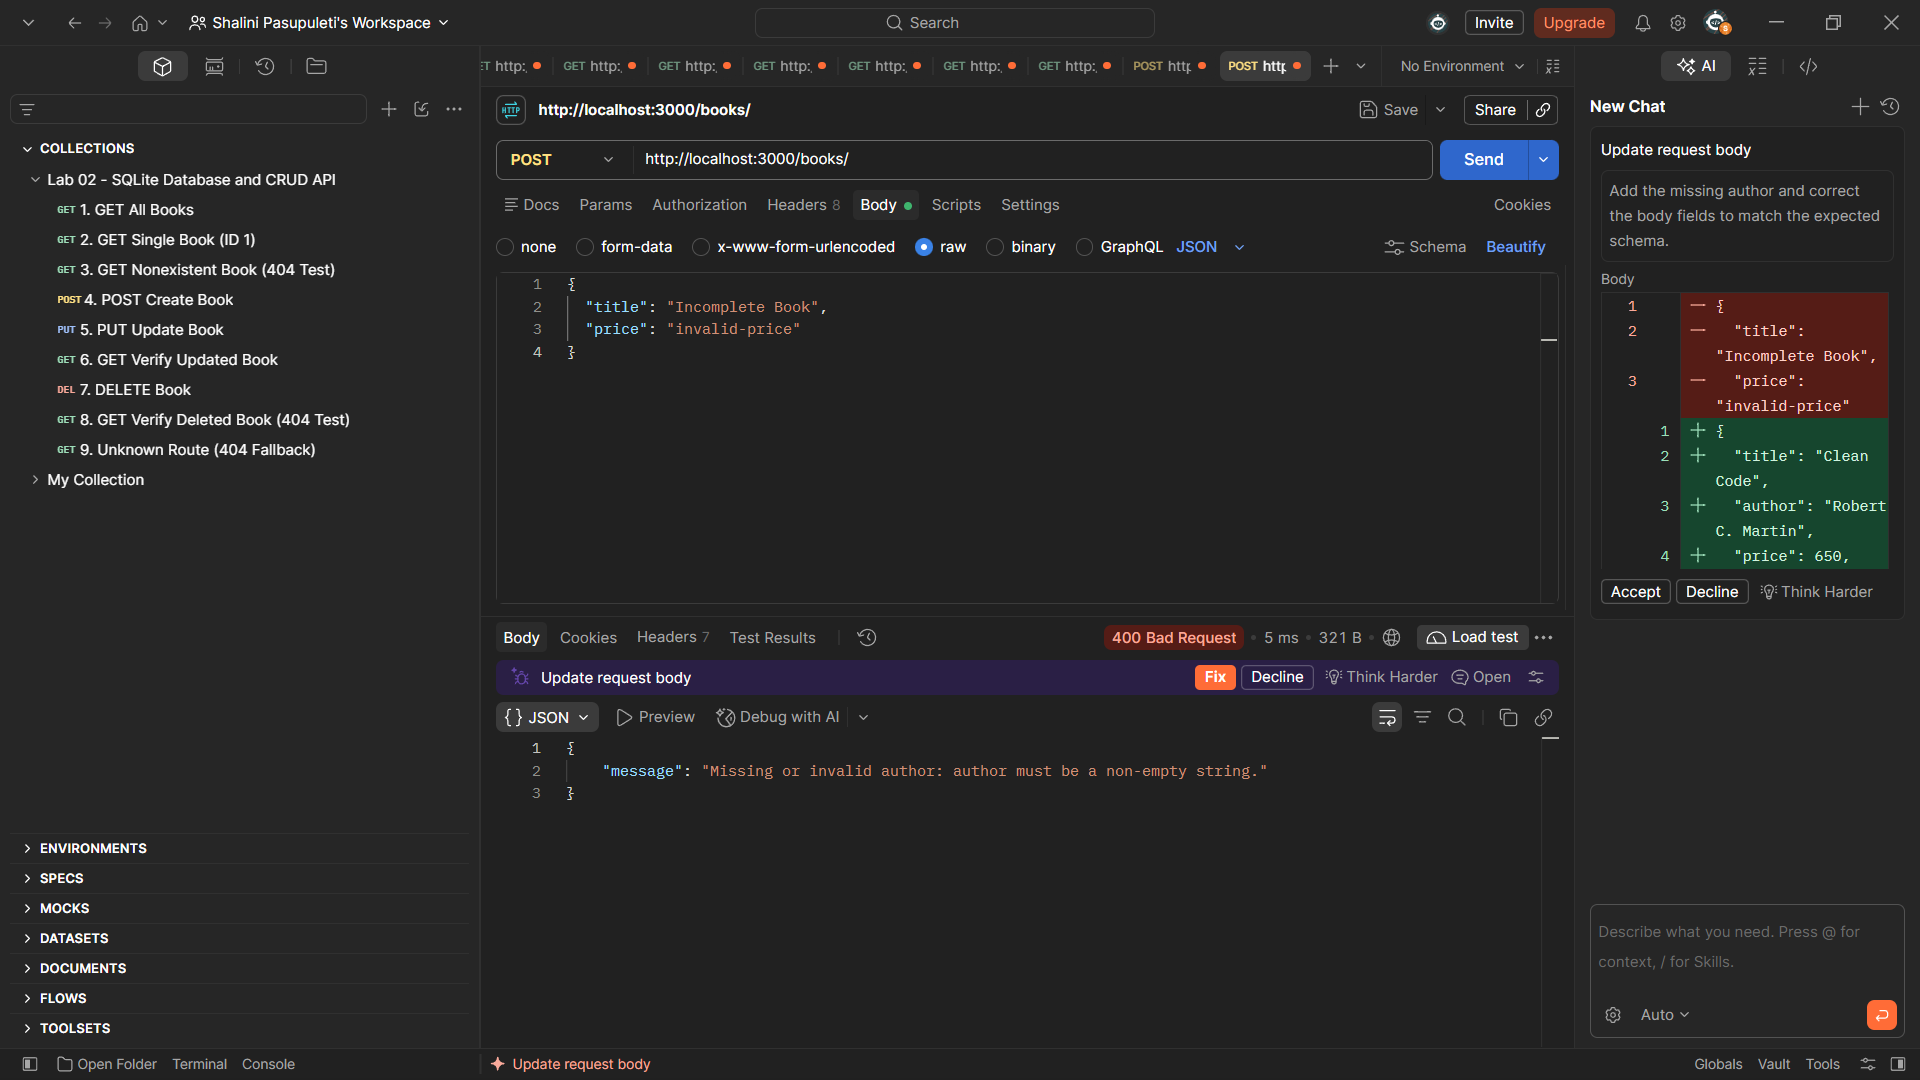
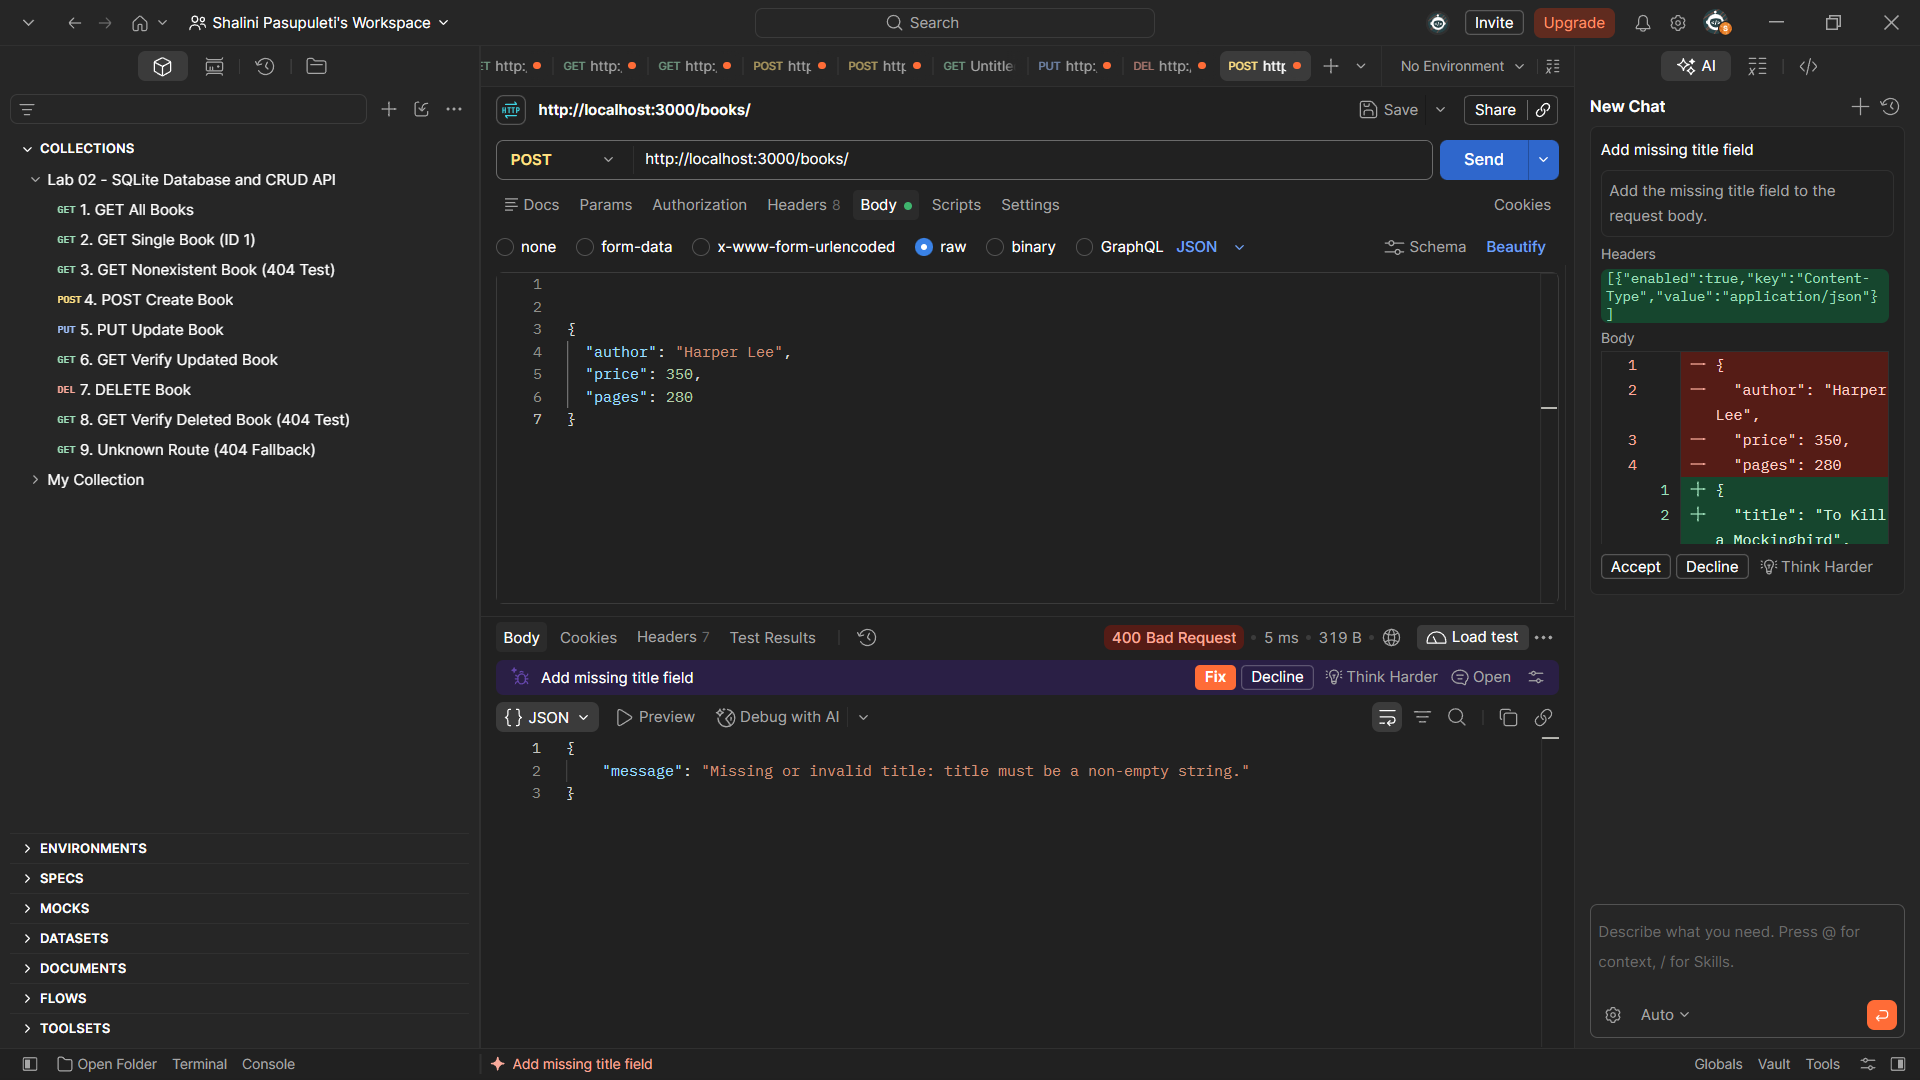
Finalize Lab 03 README and Postman screenshots

diff --git a/lab-03/README.md b/lab-03/README.md
@@ -11,6 +11,25 @@
 
 ---
 
+## Live Deployment
+
+- **Hosting Platform:** [Render Cloud Application Platform](https://render.com/)
+- **Service Type:** Web Service (Node.js runtime environment)
+- **Base URL:** `https://backend-lab-03-rih8.onrender.com`
+- **Welcome Route:** [`https://backend-lab-03-rih8.onrender.com/`](https://backend-lab-03-rih8.onrender.com/)
+- **All Books Endpoint:** [`https://backend-lab-03-rih8.onrender.com/books/`](https://backend-lab-03-rih8.onrender.com/books/)
+- **Filtered Books Example:** [`https://backend-lab-03-rih8.onrender.com/books/?search_q=The&order_by=price&order=DESC`](https://backend-lab-03-rih8.onrender.com/books/?search_q=The&order_by=price&order=DESC)
+
+> [!NOTE]
+> **Cold Start Behavior on Render Free Tier:**
+> Render's free tier spins down idle web services after 15 minutes of inactivity. When accessed after a period of dormancy, the server requires approximately 50 seconds to initialize and spin up. Subsequent requests respond instantly.
+
+> [!WARNING]
+> **Ephemeral Storage Disclaimer (SQLite on Render Free Tier):**
+> Render free web services utilize an **ephemeral disk filesystem**. Any database modifications performed at runtime (such as adding new books via `POST`, updating records via `PUT`, or deleting records via `DELETE`) are stored in the container's temporary filesystem. When the container sleeps, restarts, or automatically redeploys from Git, the filesystem resets back to the initial committed repository snapshot (`database/books.db`). Persistent, permanent mutations across redeployments would require a managed external database (such as PostgreSQL) or Render persistent disk volumes. For the purposes of this lab evaluation, the initial 10 canonical book records are always preserved on every restart.
+
+---
+
 ## 1. Objective
 
 The primary objectives of Lab 03 are:
@@ -455,4 +474,111 @@ app.get('/books', async (req, res) => {
   }
 });
 ```
+
+---
+
+## 12. Viva Preparation (Questions & Answers)
+
+### Q1: What is the difference between path parameters and query parameters in REST APIs?
+**Answer:**
+- **Path Parameters (`/books/:bookId`):** Part of the URL path used to identify a specific resource or entity within a hierarchical dataset. For example, `GET /books/3` uniquely targets the book whose primary key is `3`. Path parameters are essential for locating a resource instance.
+- **Query Parameters (`/books?search_q=The&order_by=price`):** Optional key-value pairs appended after a `?` delimiter, separated by `&`. They are used to filter, sort, paginate, or customize the presentation of a collection of resources without altering the fundamental resource being requested.
+
+---
+
+### Q2: What does it mean for a REST API to be "stateless"?
+**Answer:**
+Statelessness is a fundamental architectural constraint of REST. It means that every HTTP request sent from the client to the server must contain all the context, credentials, and parameters necessary to understand and fulfill the request. The server does not retain or store any client session state between requests. This architecture provides major benefits:
+- **Scalability:** Any available server or worker in a cluster can handle any incoming request.
+- **Reliability:** Server restarts do not invalidate or corrupt active user sessions.
+- **Simplicity:** Caching, proxy routing, and horizontal load balancing become straightforward to manage.
+
+---
+
+### Q3: How does the SQL `LIKE` operator work, and what do the `%` and `_` wildcards signify?
+**Answer:**
+The SQL `LIKE` operator performs pattern matching against string columns rather than exact equality matching:
+- **`%` Wildcard:** Matches zero, one, or multiple arbitrary characters. In our API, `title LIKE '%The%'` (parameterized as `title LIKE ?` with `[%The%]`) matches any title containing `"The"` anywhere in the text (e.g., *"The Hobbit"*, *"Brave New World"*).
+- **`_` Wildcard:** Matches exactly one single character. For example, `'H_t'` matches `'Hat'` or `'Hot'`, but not `'Heat'`.
+
+---
+
+### Q4: What is SQL Injection (SQLi), and how do parameterized queries prevent it?
+**Answer:**
+- **SQL Injection:** A critical security vulnerability where untrusted user input is directly concatenated into a dynamic SQL query string. An attacker can inject malicious SQL syntax (e.g., `' OR '1'='1' --`) to alter query logic, bypass authentication, expose confidential records, or drop tables.
+- **Parameterized Queries:** Parameterized queries use placeholders (`?` in SQLite) in the query template. The SQL command structure is pre-compiled and parsed by the database engine first. User inputs are transmitted separately in an array of parameters. The database treats these inputs strictly as literal data values, making it impossible for user data to be interpreted or executed as SQL commands.
+
+---
+
+### Q5: Why can't SQL column names in `ORDER BY` be parameterized, and how does an allowlist solve this?
+**Answer:**
+SQL parameter placeholders (`?`) can only replace **data values** (such as string literals, numbers, or dates) in `WHERE` clauses and `VALUES` lists; they cannot be used for SQL identifiers such as table names, column names, or keywords like `ASC` / `DESC`.
+- If an application concatenates user input directly into `ORDER BY ${req.query.order_by}`, an attacker can execute blind SQL injection.
+- **Allowlist Defense:** We define a strict array of valid column names: `['id', 'title', 'author', 'price', 'pages']` and allowed sort directions: `['ASC', 'DESC']`. Before constructing the query, the server verifies if the user input exists in the allowlist. If the input is not in the allowlist, the server rejects the request immediately with HTTP `400 Bad Request`.
+
+---
+
+### Q6: How do `LIMIT` and `OFFSET` implement pagination in SQL?
+**Answer:**
+- **`LIMIT`:** Specifies the maximum number of rows returned in the result set. For example, `LIMIT 5` restricts the output to at most 5 items per page.
+- **`OFFSET`:** Specifies the number of preceding rows to skip before beginning to return results. For example, `OFFSET 10` skips the first 10 rows.
+- **Formula for Page $P$ with Page Size $S$ (1-indexed):**
+  $$\text{LIMIT} = S$$
+  $$\text{OFFSET} = (P - 1) \times S$$
+  For Page 3 with 5 items per page: $\text{LIMIT} = 5$, $\text{OFFSET} = (3 - 1) \times 5 = 10$. Both values must be validated as non-negative integers to avoid SQL syntax errors.
+
+---
+
+### Q7: Explain the semantic differences between HTTP status codes 200, 201, 400, and 404.
+**Answer:**
+- **`200 OK`:** Indicates standard request success. Used for successful `GET` queries, `PUT` updates, and `DELETE` operations where the server returns data or a confirmation message.
+- **`201 Created`:** Indicates that the request succeeded and resulted in the creation of a new resource (standard response for `POST /books/`). The response typically includes the created resource object and its newly assigned ID.
+- **`400 Bad Request`:** Client-side error indicating that the server cannot process the request due to malformed syntax, invalid query parameters (e.g., negative limit, invalid sort column), or failing request body validation (e.g., missing title, non-numeric price).
+- **`404 Not Found`:** Client-side error indicating that the requested resource URL does not exist or the specific record identifier does not exist in the database (e.g., `GET /books/999` when ID 999 does not exist).
+
+---
+
+### Q8: Why is backend input validation critical even if frontend validation is already implemented?
+**Answer:**
+Frontend validation provides user interface convenience (instant visual feedback), but it provides **zero security**. Any client can bypass frontend checks by sending direct HTTP requests using Postman, `curl`, browser Developer Tools, or automated scripts.
+Backend validation is the authoritative gatekeeper:
+- Protects the database against invalid types, null pointer errors, and database-level constraint violations.
+- Guarantees data consistency and schema compliance.
+- Provides standardized, structured `{ "message": "..." }` responses to API consumers.
+
+---
+
+### Q9: Why is `async` / `await` used with database queries in Node.js? What happens if `await` is omitted?
+**Answer:**
+Node.js uses a single-threaded event loop with non-blocking asynchronous I/O. Database operations (reading disk files, executing SQL queries) take time to complete and return JavaScript `Promise` objects.
+- Marking a route handler `async` allows using `await` to pause execution until the database promise resolves, returning the actual rows or result.
+- **If `await` is omitted:** Node.js does not wait for the query. The variable holds a pending Promise (`Promise { <pending> }`). Express immediately serializes this unresolved Promise to the client as an empty JSON object `{}` with `200 OK`, while the actual database response arrives later when the response stream has already closed.
+
+---
+
+### Q10: How do you troubleshoot and debug a `SQLITE_ERROR: no such table` error in Express?
+**Answer:**
+1. **Inspect Schema Definition:** Check [`database/schema.sql`](file:///d:/Backend_Development_Fundamentals/lab-03/database/schema.sql) to verify the exact table name declared in `CREATE TABLE`. A common bug is writing `CREATE TABLE book` (singular) while the query executes `SELECT * FROM books` (plural).
+2. **Inspect Physical Database:** Verify that the `.db` file exists at the expected path. Use Node.js script or SQLite CLI to verify existing tables (`.tables` or `SELECT name FROM sqlite_master WHERE type='table';`).
+3. **Check Absolute vs. Relative Paths:** Ensure the database connection path is resolved using `path.join(__dirname, 'database', 'books.db')` rather than a relative path that changes depending on the terminal's working directory.
+
+---
+
+## 13. GitHub Submission Checklist
+
+Before submitting the assignment, verify every item below:
+
+- [x] **Repository Structure:** Repository root contains independent folders `lab-01/`, `lab-02/`, and `lab-03/`.
+- [x] **No Inter-Lab Modifications:** `lab-01/` and `lab-02/` remain untouched and functional.
+- [x] **Git Cleanliness:** `node_modules/` and local `.env` files are strictly excluded via `.gitignore`.
+- [x] **Canonical Database:** `lab-03/database/books.db` contains exactly 10 initial sample records matching `schema.sql`.
+- [x] **All 5 REST Routes Implemented:** `GET /books`, `GET /books/:bookId`, `POST /books`, `PUT /books/:bookId`, `DELETE /books/:bookId`.
+- [x] **All 7 Query Parameters Supported:** `search_q`, `order_by`, `order`, `limit`, `offset`, `min_price`, `max_price`.
+- [x] **Strict POST & PUT Validation:** All 3 validation conditions (`missing title`, `missing author`, `non-numeric price`) return HTTP `400 Bad Request`.
+- [x] **Automated Regression Suite:** All 21 test cases in `test-endpoints.js` pass with 100% success rate.
+- [x] **Postman Collection:** `Lab-03-Postman-Collection.json` contains 21 distinct requests matching all server routes and validation tests.
+- [x] **Screenshot Evidence:** All 21 required screenshots in `screenshots/` exist, are non-empty, and contain distinct Postman execution evidence.
+- [x] **4 Debugging Exercises:** Detailed explanations and code fixes for `EADDRINUSE`, `MODULE_NOT_FOUND`, `no such table`, and missing `await`.
+- [x] **Live Cloud Deployment:** Active Render web service verified at `https://backend-lab-03-rih8.onrender.com` with ephemeral storage disclaimer.
+- [x] **Viva Preparation:** 10 comprehensive questions and answers covering core backend fundamentals.
 
